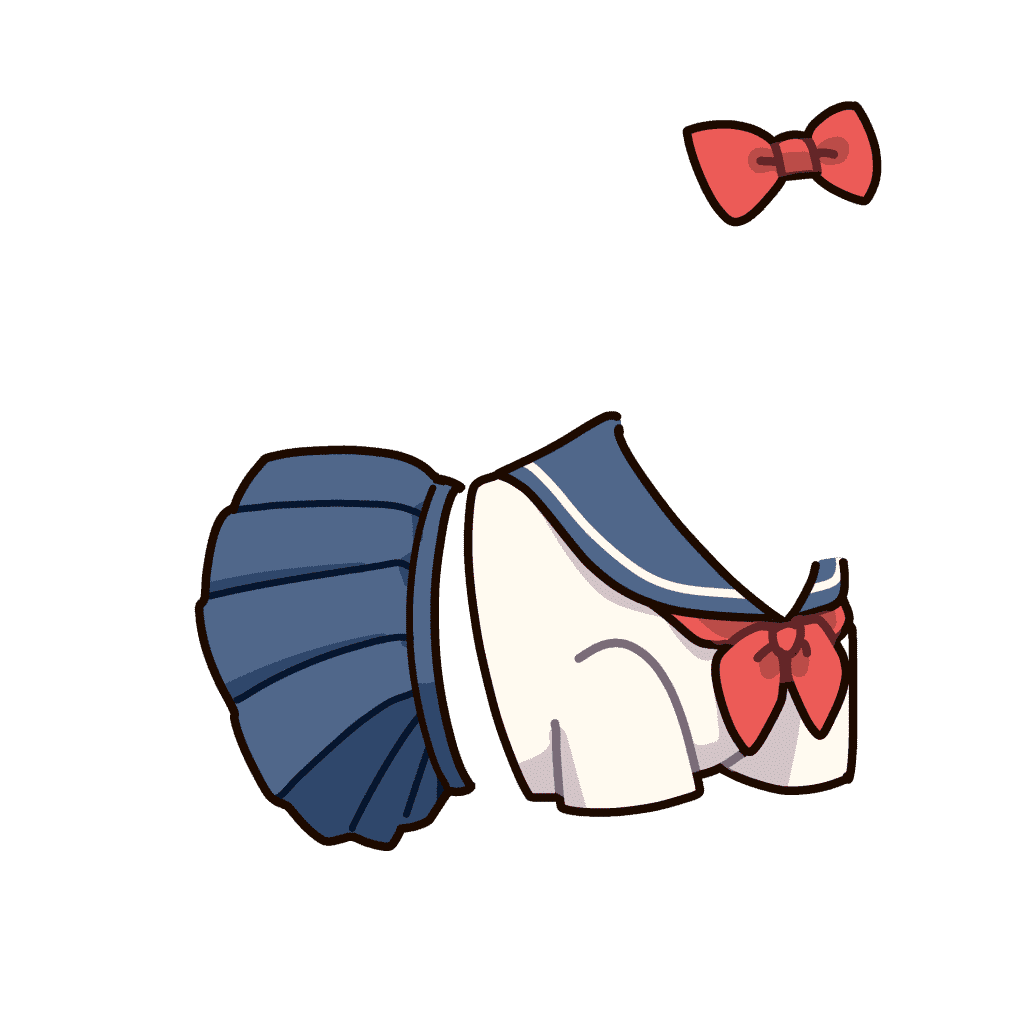
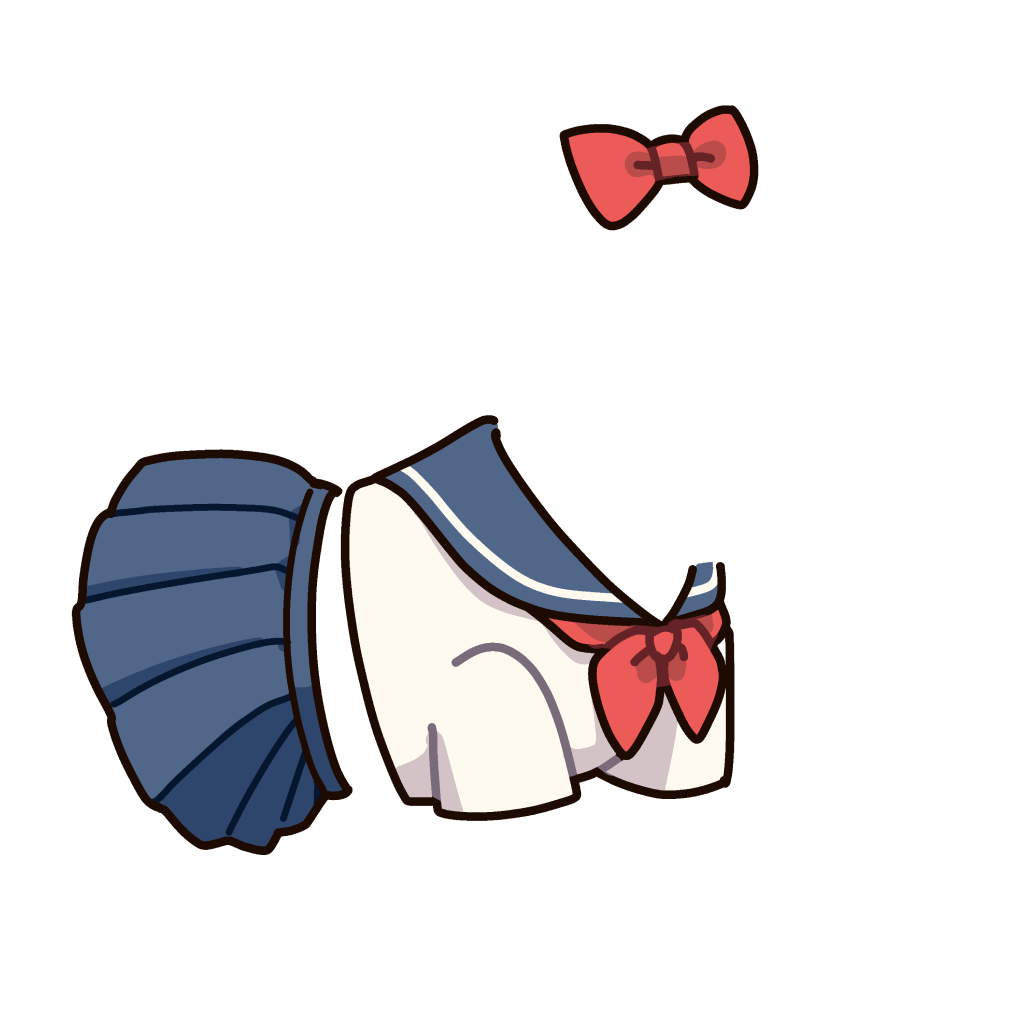
fix:画像データ修正

Changed region(s): [[0.0625, 0.4062, 0.8438, 0.8438], [0.5312, 0.0938, 0.875, 0.25]]

diff --git a/src/components/costume/ChangeCostumeBox.tsx b/src/components/costume/ChangeCostumeBox.tsx
@@ -1,4 +1,5 @@
-import { Box, Grid } from '@mui/material';
+import { useContext, useState } from 'react';
+import { Grid } from '@mui/material';
 import costume_kigurumi_left from '../../assets/costume_kigurumi_left.png';
 import costume_kimono_left from '../../assets/costume_kimono_left.png';
 import costume_maid_left from '../../assets/costume_maid_left.png';
@@ -10,8 +11,10 @@ import costume_seta_left from '../../assets/costume_seta_left.png';
 import costume_yubin_left from '../../assets/costume_yubin_left.png';
 import yagi_left from '../../assets/yagi.png';
 import { CostumeBox } from './CostumeBox';
+import { GoatClothesContext } from '../../provider/ContextProviders';
 
 export const ChangeCostumeBox = () => {
+  const [_, setClothesUrl] = useContext(GoatClothesContext);
   return (
     <Grid
       container
@@ -21,35 +24,95 @@ export const ChangeCostumeBox = () => {
       sx={{ alignItems: 'center', alignContent: 'center', wrap: 'wrap', height: '100%' }}
     >
       <Grid item xs={4}>
-        <CostumeBox CostumeImage={yagi_left} />
+        <div
+          onClick={() => {
+            setClothesUrl('yagi');
+          }}
+        >
+          <CostumeBox CostumeImage={yagi_left} />
+        </div>
       </Grid>
       <Grid item xs={4}>
-        <CostumeBox CostumeImage={costume_kigurumi_left} />
+        <div
+          onClick={() => {
+            setClothesUrl('kigurumi');
+          }}
+        >
+          <CostumeBox CostumeImage={costume_kigurumi_left} />
+        </div>
       </Grid>
       <Grid item xs={4}>
-        <CostumeBox CostumeImage={costume_kimono_left} />
+        <div
+          onClick={() => {
+            setClothesUrl('kimono');
+          }}
+        >
+          <CostumeBox CostumeImage={costume_kimono_left} />
+        </div>
       </Grid>
       <Grid item xs={4}>
-        <CostumeBox CostumeImage={costume_maid_left} />
+        <div
+          onClick={() => {
+            setClothesUrl('maid');
+          }}
+        >
+          <CostumeBox CostumeImage={costume_maid_left} />
+        </div>
       </Grid>
       <Grid item xs={4}>
-        <CostumeBox CostumeImage={costume_mizugi_left} />
+        <div
+          onClick={() => {
+            setClothesUrl('mizugi');
+          }}
+        >
+          <CostumeBox CostumeImage={costume_mizugi_left} />
+        </div>
       </Grid>
       <Grid item xs={4}>
-        <CostumeBox CostumeImage={costume_nurse_left} />
+        <div
+          onClick={() => {
+            setClothesUrl('nurse');
+          }}
+        >
+          <CostumeBox CostumeImage={costume_nurse_left} />
+        </div>
       </Grid>
       <Grid item xs={4}>
-        <CostumeBox CostumeImage={costume_police_left} />
+        <div
+          onClick={() => {
+            setClothesUrl('police');
+          }}
+        >
+          <CostumeBox CostumeImage={costume_police_left} />
+        </div>
       </Grid>
       <Grid item xs={4}>
-        <CostumeBox CostumeImage={costume_serahuku_left} />
+        <div
+          onClick={() => {
+            setClothesUrl('serahuku');
+          }}
+        >
+          <CostumeBox CostumeImage={costume_serahuku_left} />
+        </div>
       </Grid>
       <Grid item xs={4}>
-        <CostumeBox CostumeImage={costume_seta_left} />
+        <div
+          onClick={() => {
+            setClothesUrl('seta');
+          }}
+        >
+          <CostumeBox CostumeImage={costume_seta_left} />
+        </div>
       </Grid>
       <Grid item xs={4} />
       <Grid item xs={4}>
-        <CostumeBox CostumeImage={costume_yubin_left} />
+        <div
+          onClick={() => {
+            setClothesUrl('yubin');
+          }}
+        >
+          <CostumeBox CostumeImage={costume_yubin_left} />
+        </div>
       </Grid>
 
       <Grid item xs={4} />

diff --git a/src/util/convertCostume.ts b/src/util/convertCostume.ts
@@ -1,0 +1,59 @@
+import costume_kigurumi_left from '../assets/costume_kigurumi_left.png';
+import costume_kimono_left from '../assets/costume_kimono_left.png';
+import costume_maid_left from '../assets/costume_maid_left.png';
+import costume_mizugi_left from '../assets/costume_mizugi_left.png';
+import costume_nurse_left from '../assets/costume_nurse_left.png';
+import costume_police_left from '../assets/costume_police_left.png';
+import costume_serahuku_left from '../assets/costume_serahuku_left.png';
+import costume_seta_left from '../assets/costume_seta_left.png';
+import costume_yubin_left from '../assets/costume_yubin_left.png';
+import costume_kigurumi_right from '../assets/costume_kigurumi_right.png';
+import costume_kimono_right from '../assets/costume_kimono_right.png';
+import costume_maid_right from '../assets/costume_maid_right.png';
+import costume_mizugi_right from '../assets/costume_mizugi_right.png';
+import costume_nurse_right from '../assets/costume_nurse_right.png';
+import costume_police_right from '../assets/costume_police_right.png';
+import costume_serahuku_right from '../assets/costume_serahuku_right.png';
+import costume_seta_right from '../assets/costume_seta_right.png';
+import costume_yubin_right from '../assets/costume_yubin_right.png';
+
+type Props = {
+  costumeImgUrl: string;
+  isRight: boolean;
+};
+
+export const convertCostume = ({ costumeImgUrl, isRight }: Props): string => {
+  // 画像名と左右から画像をswitchで判定
+  switch (costumeImgUrl) {
+    //着ぐるみ
+    case 'kigurumi':
+      return isRight ? costume_kigurumi_right : costume_kigurumi_left;
+    //着物
+    case 'kimono':
+      return isRight ? costume_kimono_right : costume_kimono_left;
+    //メイド
+    case 'maid':
+      return isRight ? costume_maid_right : costume_maid_left;
+    //水着
+    case 'mizugi':
+      return isRight ? costume_mizugi_right : costume_mizugi_left;
+    //ナース
+    case 'nurse':
+      return isRight ? costume_nurse_right : costume_nurse_left;
+    //警察
+    case 'police':
+      return isRight ? costume_police_right : costume_police_left;
+    //セーラー服
+    case 'serahuku':
+      return isRight ? costume_serahuku_right : costume_serahuku_left;
+    //どうていころすセーター
+    case 'seta':
+      return isRight ? costume_seta_right : costume_seta_left;
+    //郵便屋さん
+    case 'yubin':
+      return isRight ? costume_yubin_right : costume_yubin_left;
+    //通常
+    default:
+      return '';
+  }
+};

diff --git a/src/pages/CostumePage.tsx b/src/pages/CostumePage.tsx
@@ -1,17 +1,31 @@
-import { useState } from 'react';
-import { Container, Stack, Grid, Box, Typography, AppBar, Tabs, Tab } from '@mui/material';
+import { useContext, useState } from 'react';
+import { Container, Stack, Grid, Box, Tabs, Tab } from '@mui/material';
 import { ChangeCostumeBox } from '../components/costume/ChangeCostumeBox';
 import { ChangeBgImageBox } from '../components/costume/ChangeBgImageBox';
 import { CostumeHeader } from '../components/costume/CostumeHeader';
+import { convertCostume } from '../util/convertCostume';
+import { GoatClothesContext } from '../provider/ContextProviders';
+import { GoatContext } from '../provider/ContextProviders';
+import { convertGoat } from '../util/convertGoat';
 
 export const CostumePage = () => {
   const [value, setValue] = useState('1');
+  const [clothesUrl] = useContext(GoatClothesContext);
+  const [goatUrl] = useContext(GoatContext);
 
   const handleCostumeTabChange = (event: React.SyntheticEvent, newValue: string) => {
     setValue(newValue);
   };
+  const costumeImage = convertCostume({
+    costumeImgUrl: clothesUrl,
+    isRight: false,
+  });
+  const goatImage = convertGoat({
+    goatImgUrl: goatUrl,
+    isRight: false,
+  });
   return (
-    <Stack direction="row" justifyContent="center" sx={{ bgcolor: 'black' }}>
+    <Stack direction="row" justifyContent="center" sx={{ bgcolor: 'white' }}>
       <Container
         maxWidth="sm"
         sx={{
@@ -35,6 +49,7 @@ export const CostumePage = () => {
               backgroundSize: 'cover',
               padding: '0',
               bgcolor: 'red',
+              backgroundImage: `url(${goatImage})`,
             }}
           >
             <Box //衣装用のbox
@@ -42,7 +57,7 @@ export const CostumePage = () => {
                 width: '100%',
                 height: '100%',
                 backgroundSize: 'cover',
-                bgcolor: 'blue',
+                backgroundImage: `url(${costumeImage})`,
               }}
             />
           </Box>

diff --git a/src/components/NormalWalk.tsx b/src/components/NormalWalk.tsx
@@ -1,8 +1,9 @@
 import { useRef, useEffect, useState, FC, useContext } from 'react';
 import yagi_efect from '../Audio/やぎの鳴き声.mp3';
-import { Button } from '@mui/material';
-import { GoatContext } from '../provider/ContextProviders';
+import { Box, Button } from '@mui/material';
+import { GoatClothesContext, GoatContext } from '../provider/ContextProviders';
 import { convertGoat } from '../util/convertGoat';
+import { convertCostume } from '../util/convertCostume';
 
 type Props = {
   containerSize: {
@@ -14,6 +15,7 @@ type Props = {
 const NormalWalk: FC<Props> = ({ containerSize }) => {
   // ヤギの姿を保持するcontext
   const [goatUrl] = useContext(GoatContext);
+  const [clothesUrl] = useContext(GoatClothesContext);
 
   const walkerRef = useRef<HTMLDivElement>(null);
   const [position, setPosition] = useState({
@@ -44,7 +46,10 @@ const NormalWalk: FC<Props> = ({ containerSize }) => {
     goatImgUrl: goatUrl,
     isRight: position.x > containerSize.width / 3,
   });
-
+  const costumeImage = convertCostume({
+    costumeImgUrl: clothesUrl,
+    isRight: position.x > containerSize.width / 3,
+  });
   const [play, isPlaying] = useState(true);
   const yagiAudio = () => {
     isPlaying(!play);
@@ -75,7 +80,16 @@ const NormalWalk: FC<Props> = ({ containerSize }) => {
             top: `${position.y}px`,
             transition: 'left 3s ease-in-out, top 3s ease-in-out', // 移動アニメーションの時間を延長（3秒）
           }}
-        />
+        >
+          <Box //衣装用のbox
+            sx={{
+              width: '100%',
+              height: '100%',
+              backgroundSize: 'cover',
+              backgroundImage: `url(${costumeImage})`,
+            }}
+          />
+        </div>
       </Button>
     </div>
   );
